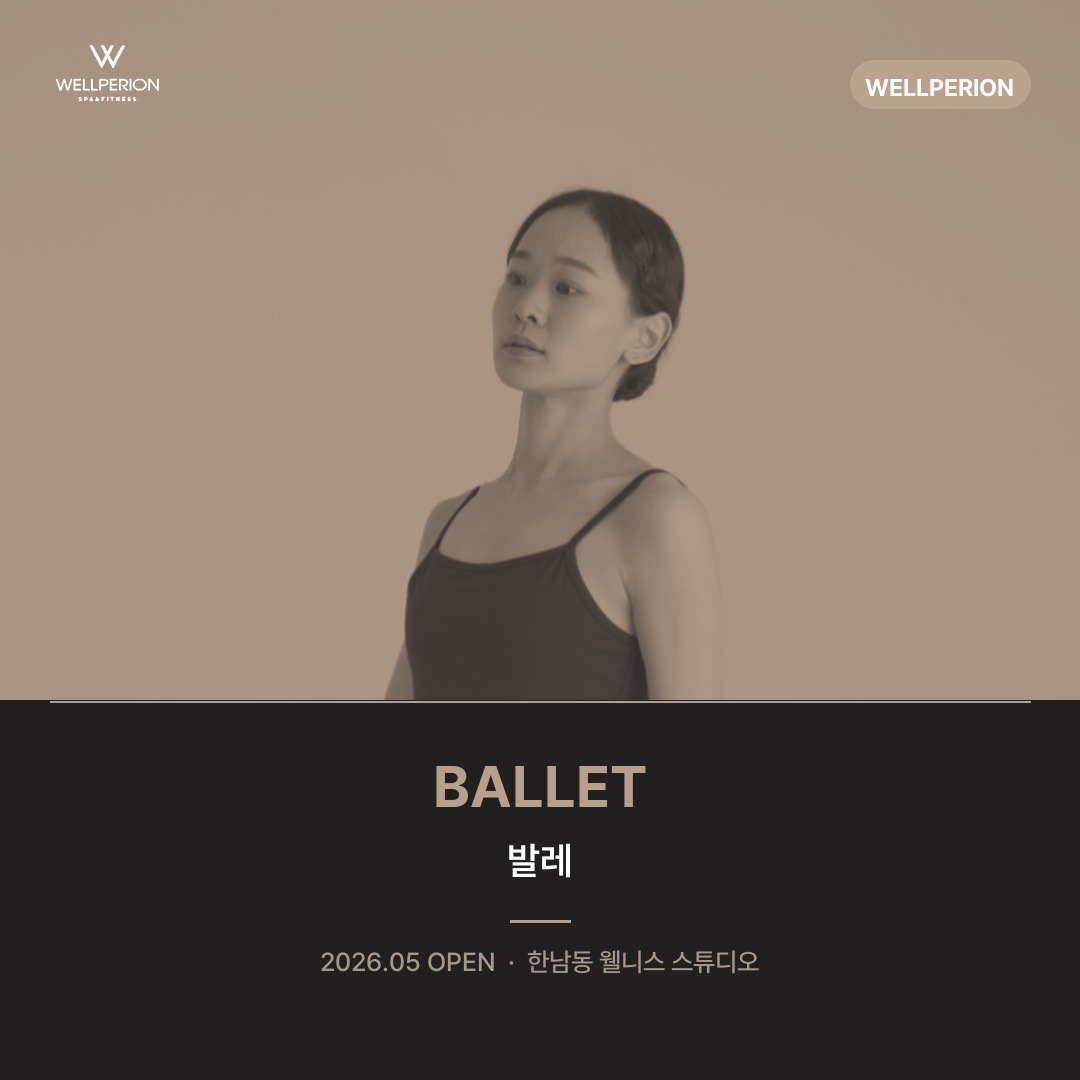
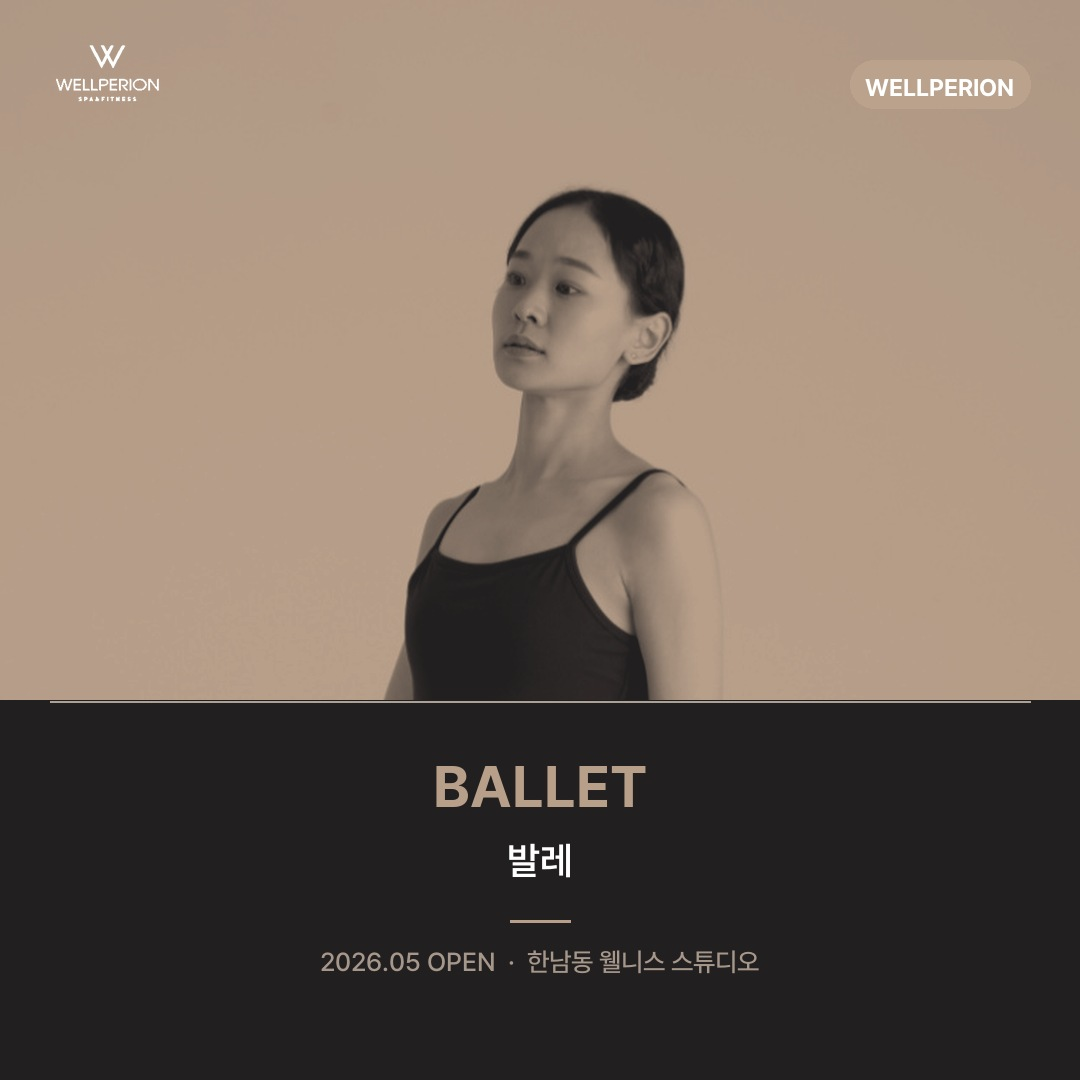
fix(cmo/design): 발레 표지에도 톤 정규화 반영 — cover to_duotone normalize 누락 수정
- compose_ballet 자체 compose_cover의 to_duotone가 normalize 미적용이라 표지 톤 정규화가 발레에 반영 안 됐던 것 수정
- 발레 표지 재합성 — 균일 배경에 음영·깊이 확보(바레 톤 계열 일관)
- 한계: 발레 원본이 균일 밝은 배경이라 입체감은 사진 교체 영역

diff --git a/3. 웰페리온 가이드/wellperion_guide(main).html b/3. 웰페리온 가이드/wellperion_guide(main).html
@@ -616,17 +616,17 @@
     <!-- AUTO:LATEST-START -->
     <div class="card grow">
       <h4>최신 업데이트 — 2026-06-05 (자동 갱신)</h4>
+      <p><strong>2026-06-05</strong> fix(coo): 업무 카드 링크 복사에 카드 제목 한 줄 포함 (GM)</p>
       <p><strong>2026-06-05</strong> feat(cmo/design): compose_barre 정본 확정 — 캔바 폐기 명문 + 표지 톤 정규화</p>
       <p><strong>2026-06-05</strong> fix(coo): 결재현황 결재자 필터 — '그 사람 건' 전부 표시로 수정 (GM)</p>
       <p><strong>2026-06-05</strong> docs(handoff): 발레 IG 슬라이드 시모→웰리 인계 브리프</p>
       <p><strong>2026-06-05</strong> refactor(cmo/design): slide_compositor BRAND_PRESETS·폰트·로고·듀오톤을 brand_constants로</p>
-      <p><strong>2026-06-05</strong> fix(cmo): M5 검수큐 — AI#6 발행완료 정정 + 스쿼시 4채널 웰페리온 분류 (GM)</p>
     </div>
 <!-- AUTO:LATEST-END -->
         <table>
           <tr><th style="width:160px">날짜</th><th>변경 내용</th></tr>
           <!-- AUTO:TABLE-START -->
-      <tr><td><strong>2026-06-05 (자동)</strong></td><td>feat(cmo/design): compose_barre 정본 확정 — 캔바 폐기 명문 + 표지 톤 정규화 · fix(coo): 결재현황 결재자 필터 — '그 사람 건' 전부 표시로 수정 (GM) · docs(handoff): 발레 IG 슬라이드 시모→웰리 인계 브리프 · refactor(cmo/design): slide_compositor BRAND…</td></tr>
+      <tr><td><strong>2026-06-05 (자동)</strong></td><td>fix(coo): 업무 카드 링크 복사에 카드 제목 한 줄 포함 (GM) · feat(cmo/design): compose_barre 정본 확정 — 캔바 폐기 명문 + 표지 톤 정규화 · fix(coo): 결재현황 결재자 필터 — '그 사람 건' 전부 표시로 수정 (GM) · docs(handoff): 발레 IG 슬라이드 시모→웰리 인계 브리프 · r…</td></tr>
       <!-- AUTO:TABLE-END -->
           <tr><td><strong>2026-05-28 (14차)</strong></td><td>공지/안내문 생성(COO 하위) · 오프라인 홍보물 디자인 제작(CMO 하위) 도구 신설 · 공지 서식 v2.0 독립 페이지화 · 회사소개서·전략로드맵 원본 「3. 웰페리온 가이드/회사문서/」로 이관(SSOT 단일화) · C-Level 부팅 R/R Notion API→가이드허브 g10 참조로 전환 · GitHub Pages 워크플로 폴더명 경로 수정 · 사이드바 "공통+7개 C-Level" 라벨 제거</td></tr>
           <tr><td>2026-05-27 (13차)</td><td>GitHub Pages 전환 · 사이드바 4섹터 · AI C-Level 통일 · 운영 통합 체계 · 공식채널·지출현황·취업규칙·SSOT 신설 · g2+g19·g9+g20·g12·g13 합병 · 김남욱 탭 확장 · v2.5</td></tr>

diff --git a/scripts/compose_ballet.py b/scripts/compose_ballet.py
@@ -86,7 +86,7 @@ def compose_cover(
 
     PHOTO_H = 700  # 바레 완성본 실측 동일
     photo = top_crop_fill(photo_path, W, PHOTO_H, x_bias=cover_x_bias, zoom=cover_zoom)
-    photo = to_duotone(photo)
+    photo = to_duotone(photo, normalize=True)  # 표지 톤 일관(정본 셋팅) — 밝은 표지도 로고·칩 대비 확보
     canvas.paste(photo, (0, 0))
 
     # 분리선 — 바레 완성본 실측: y=701~702, x=50~1030
